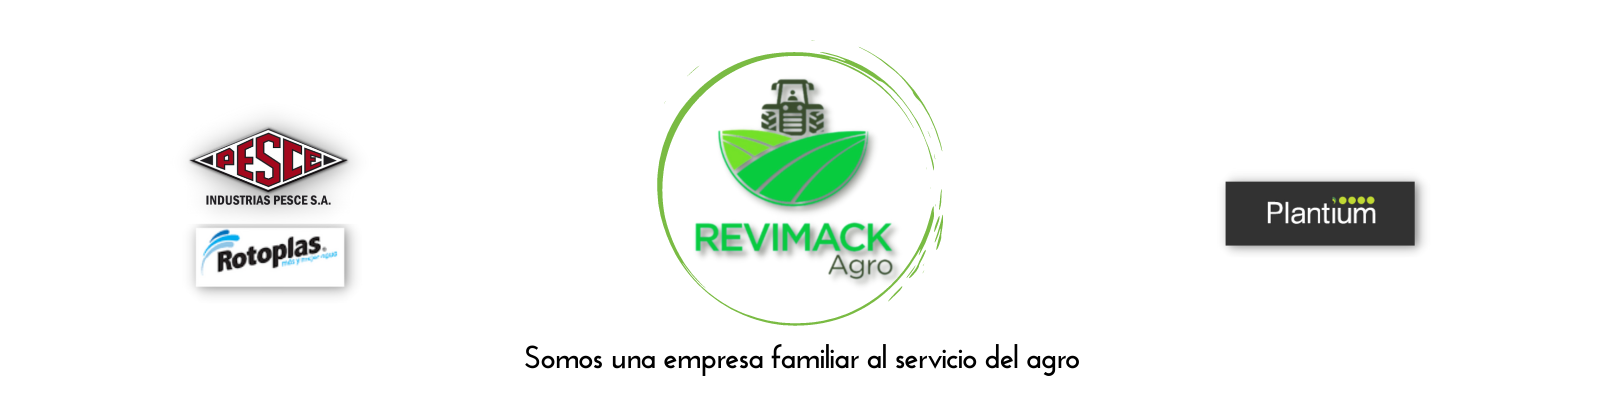
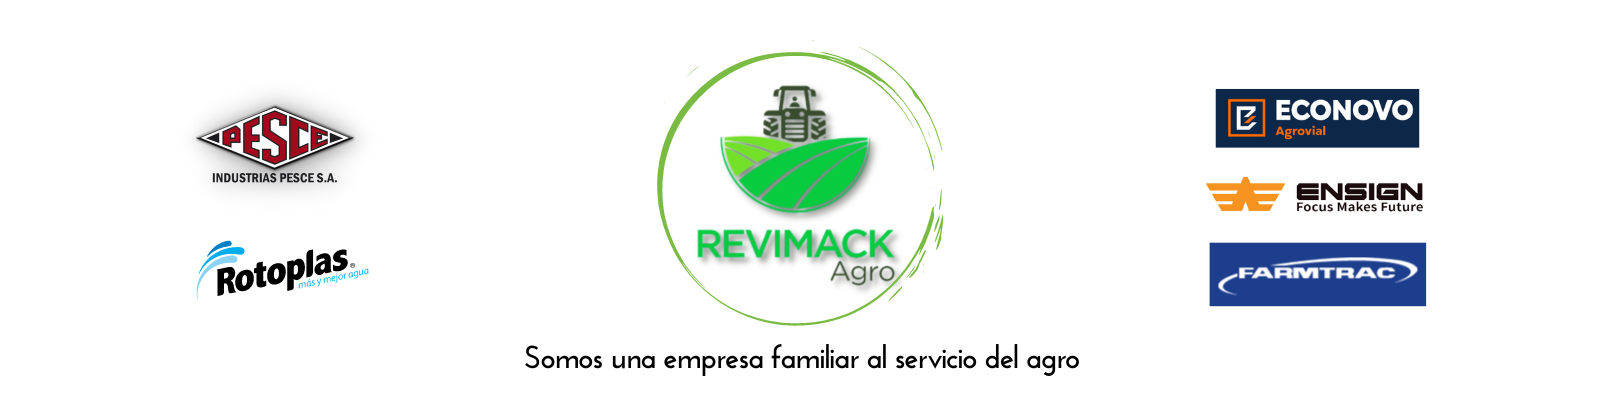
sin plantium

diff --git a/src/app/shared/pages/home/home.component.html b/src/app/shared/pages/home/home.component.html
@@ -20,16 +20,7 @@
         
         <div fxLayout.xs="column"  fxLayout="row wrap"  fxFlex="100" fxLayoutAlign="space-between space-between"  fxLayoutGap.gt-xs="1px"  style="margin-top: 50px;">
         
-            <div class="card"   fxFlex.xs="100"  fxFlex.gt-xs="48" fxFlex.gt-sm="27" fxFlex="27" routerLink="../tecno/plantium" >
-            <img src="assets/plantium.png" class="card-img-top plantium" alt=" plantium">
-            <div class="card-body">
-              <h5 class="card-title">Plantium Agricultura de precisión</h5>
-              <p class="card-text">Nos enorgullese formar parte de esta alianza estratégica, somos punto de venta oficial de los productos
-                 Plantium en La Pampa.</p>
-            <p class="card-text text">Desde Villa Constitución, provincia de Santa Fe, Argentina. Plantium dedica sus ideas, trabajo y esfuerzo a la agricultura de precisión, al servicio de la gente que trabaja la tierra..</p>
-              <!-- <a href="#" class="btn btn-primary">Go somewhere</a> -->
-            </div>
-            </div>
+      
 
             
             <div class="card"  fxFlex.xs="100" fxFlex.gt-xs="48" fxFlex.gt-sm="27" fxFlex="27"   routerLink="../eco/rotoplas">
@@ -45,11 +36,20 @@
                 
             <div class="card" fxFlex.xs="100"  fxFlex.gt-xs="48"fxFlex.gt-sm="27" fxFlex="27" >
                 <img src="assets/logo_pesce.png" class="card-img-top pesce" alt="industrias pesce" >
+                <div class="card-body">
+                    <h5 class="card-title">Industrias Pesce</h5>
+                    <p class="card-text">INDUSTRIAS PESCE S.A. es la fábrica de implementos agrícolas y construcciones metálicas de mayor antigüedad en la actividad en el Sur de la Provincia de Entre Ríos. Instalada dentro del actual corredor y ruta de comunicación del MERCOSUR, a 40 Km. de la Ruta Nacional No 14, en la ciudad de Urdinarrain, Departamento Gualeguaychú donde tiene su domicilio legal.</p>
+                </div>
+           </div>
+
+        <div class="card"   fxFlex.xs="100"  fxFlex.gt-xs="48" fxFlex.gt-sm="27" fxFlex="27" routerLink="../tecno/plantium" >
+            <img src="assets/econovo-logo.png" class="card-img-top plantium" alt=" plantium">
             <div class="card-body">
-                <h5 class="card-title">Industrias Pesce</h5>
-                <p class="card-text">INDUSTRIAS PESCE S.A. es la fábrica de implementos agrícolas y construcciones metálicas de mayor antigüedad en la actividad en el Sur de la Provincia de Entre Ríos. Instalada dentro del actual corredor y ruta de comunicación del MERCOSUR, a 40 Km. de la Ruta Nacional No 14, en la ciudad de Urdinarrain, Departamento Gualeguaychú donde tiene su domicilio legal.</p>
+              <h5 class="card-title">ECONOVO División agrovial</h5>
+              <p class="card-text"> Es una empresa flexible que busca brindarles soluciones eficientes a nuestros clientes, con gran diversificación de productos y servicios que cumplen con las exigencias de calidad y garantizan una solución rentable.</p>
+            <p class="card-text text">En los últimos años avanzamos en los sectores minero, petrolero, vial y agrícola, con el objetivo de ampliar y diversificar nuestro campo de acción, ofreciendo y proveyendo soluciones desde la innovación y la sustentabilidad.</p>
             </div>
-        </div>
+            </div>
         </div>  
     </div>
     

diff --git a/src/app/shared/pages/navbar/navbar.component.html b/src/app/shared/pages/navbar/navbar.component.html
@@ -98,13 +98,13 @@
 
         <p><a routerLink="/implementos/implementos-agricolas"> <label data-bs-dismiss="offcanvas"> Venta de Implementos</label></a></p>
         <p><a routerLink="/eco/plasticos"> <label data-bs-dismiss="offcanvas"> Linea de plásticos</label></a></p>
-        <p><a routerLink="/tecno/tecnologia"> <label data-bs-dismiss="offcanvas"> Tecnología Agropecuaria</label></a></p>
         
         <div class="divider" fxFlex="100"></div>
-        <p><a><label style="color: rgb(31, 143, 21);">Proximamente:</label></a></p>
-        <p><a > <label >Repuestos y accesorios</label></a></p>
-        <p><a><label >Venta de Maquinaria Agricola</label></a></p>
-        <p><a><label >Servicios Agropecuarios</label></a></p>
+        <p><a> <label style="color: rgb(31, 143, 21);">Proximamente:</label></a></p>
+        <p><a> <label >Tecnología Agropecuaria</label></a></p>
+        <p><a> <label >Repuestos y accesorios</label></a></p>
+        <p><a> <label >Venta de Maquinaria Agricola</label></a></p>
+        <p><a> <label >Servicios Agropecuarios</label></a></p>
 
 
       </div>  

diff --git a/src/app/shared/pages/us/us/us.component.html b/src/app/shared/pages/us/us/us.component.html
@@ -17,7 +17,7 @@
       
          <div fxLayout="row wrap" fxLayout.xs="column " fxLayoutAlign="space-between center"  fxLayoutAlign.xs="center" fxFlex="100" fxFlex.xs="80" fxLayoutGap.xs="100px" style="cursor:pointer" > 
                 <img src="assets/rotoplas/rotoplas_logo.svg" alt="rotoplas plasticos" routerLink="/eco/rotoplas" fxFlex="25" fxFlex.xs="20" >
-                <img src="assets/plantium/plantium.png" alt="plantium" routerLink="/tecno/plantium" fxFlex="25" fxFlex.xs="10"  >
+                <img src="assets/econovo-logo.png" alt="plantium" fxFlex="25" fxFlex.xs="10"  >
                 <img src="assets/logo_pesce.png" alt="logo pesce" routerLink="/implementos/pesce" fxFlex="25" fxFlex.xs="20" >
 
             </div> 

diff --git a/src/index.html b/src/index.html
@@ -15,7 +15,6 @@
   <link href="https://fonts.googleapis.com/css2?family=Roboto:wght@300;400;500&display=swap" rel="stylesheet">
   <link href="https://fonts.googleapis.com/css2?family=Roboto+Condensed:wght@300&display=swap" rel="stylesheet">
   <link href="https://fonts.googleapis.com/css2?family=Raleway:wght@500&display=swap" rel="stylesheet">
-  <link rel="stylesheet" href="https://cdnjs.cloudflare.com/ajax/libs/animate.css/4.1.1/animate.min.css"/>
   <link rel="stylesheet" href="https://cdn.jsdelivr.net/npm/bootstrap-icons@1.8.1/font/bootstrap-icons.css">
 
   
